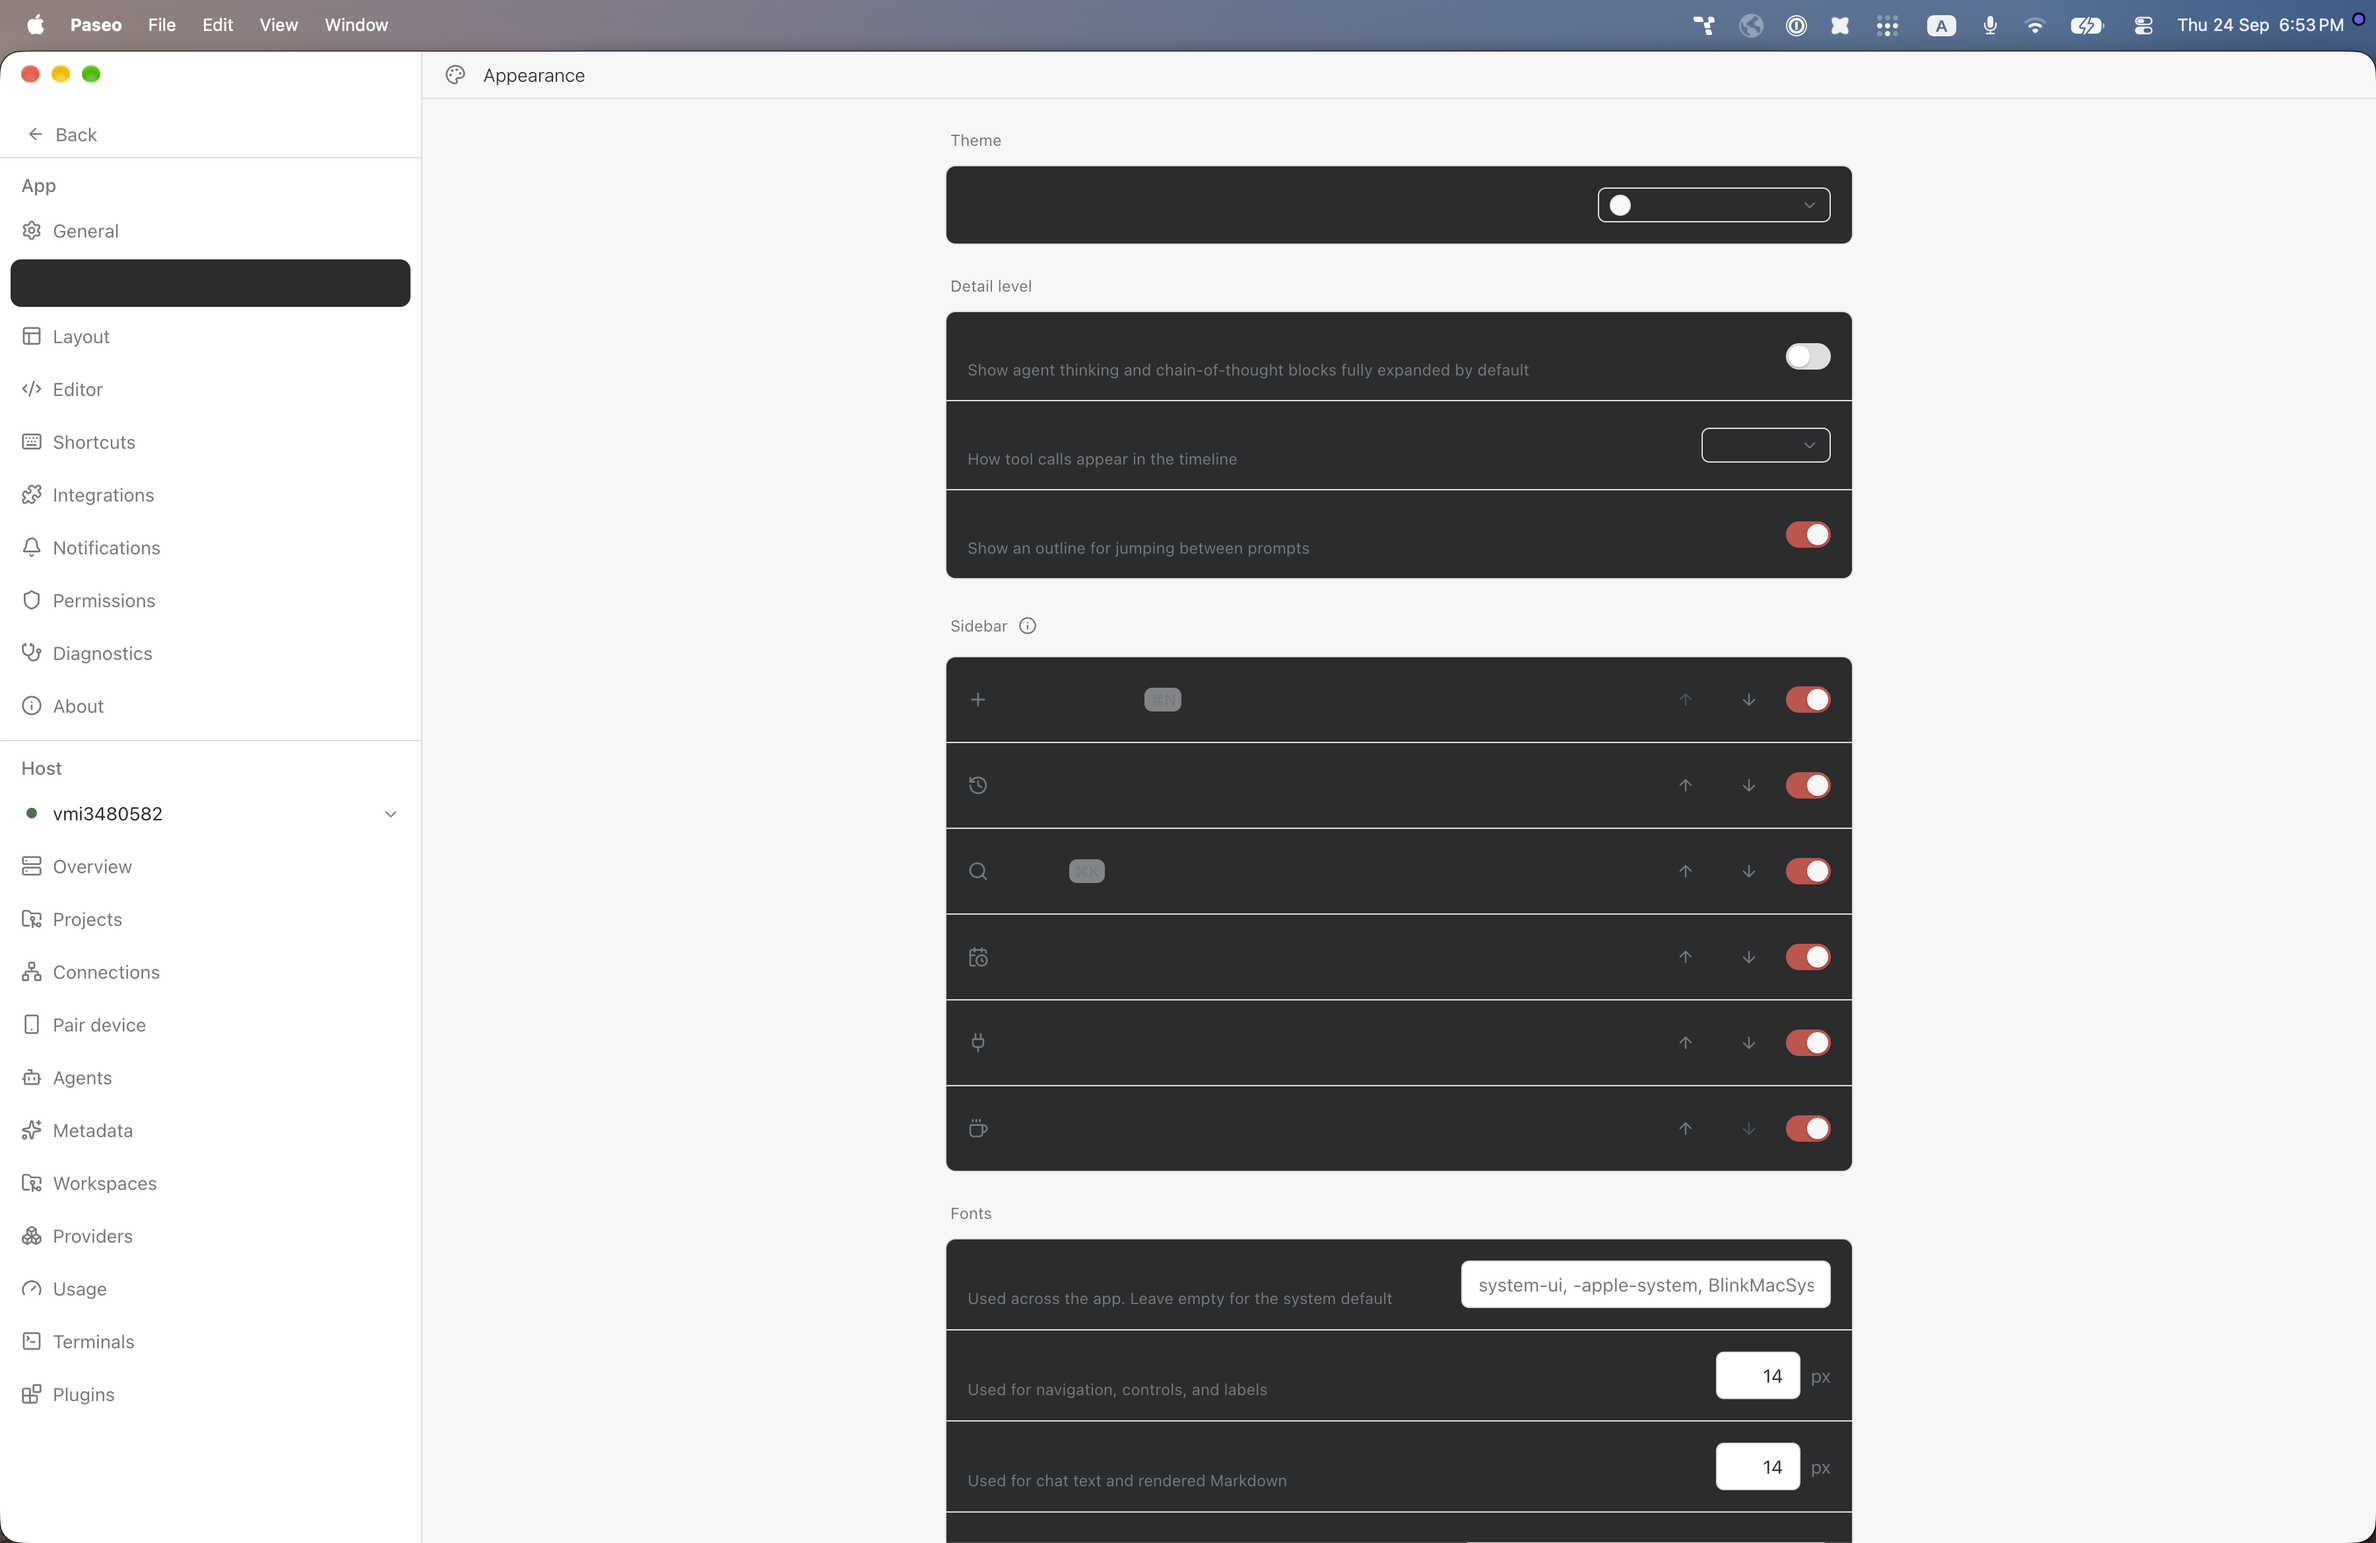
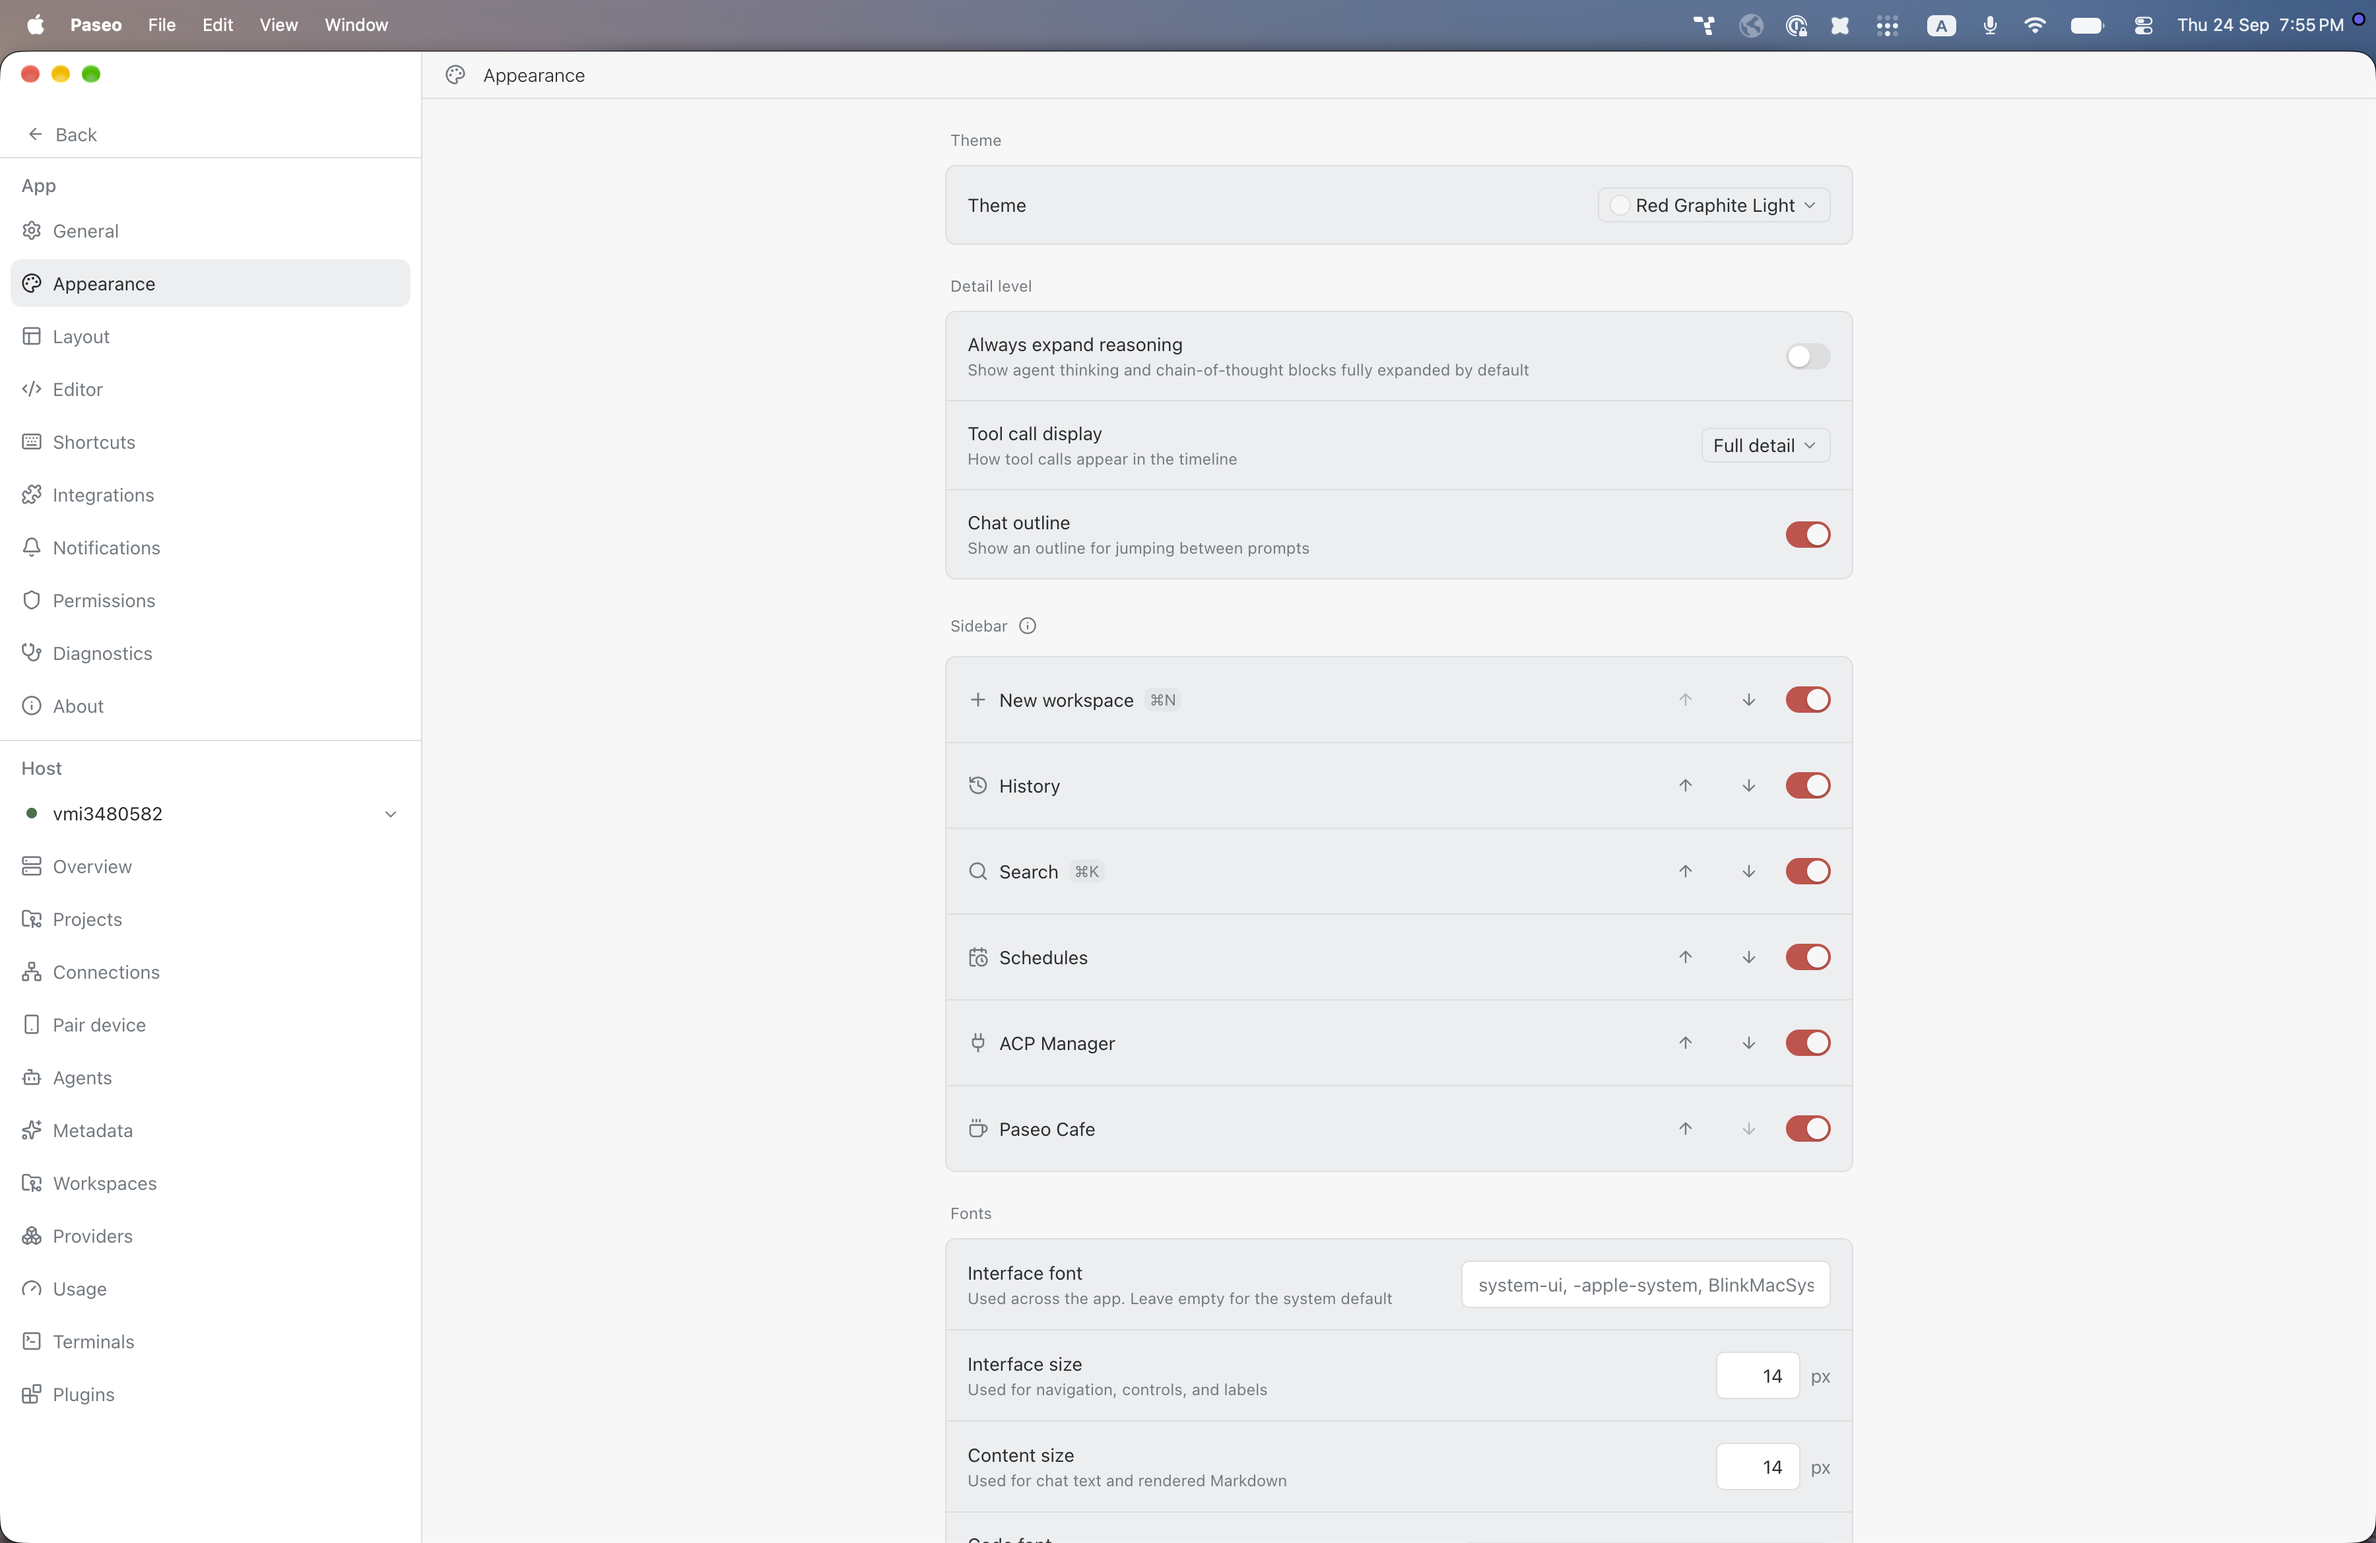
Fix low-contrast colors in 4 themes, refresh previews
Red Graphite Light: raised matched foreground, hiding sidebar/dropdown
text. Reverie Light: control matched mutedForeground, hiding sidebar
nav text. Base2Tone: control matched background, hiding the off-state
toggle track. Panic Mode: accent was pure black, hiding on-state
toggles. Bumped all four to 0.1.2 and replaced preview images.

diff --git a/packages/paseo-reverie-theme/index.client.ts b/packages/paseo-reverie-theme/index.client.ts
@@ -26,10 +26,10 @@ export default function contribute(client: PluginClientContext) {
 			background: "#e7e7e7",
 			foreground: "#1a2023",
 			raised: "#e3e3e3",
-			control: "#534a42",
+			control: "#dcd6cc",
 			border: "#0a4a44",
 			accent: "#0c5249",
-			mutedForeground: "#534a42",
+			mutedForeground: "#6b6259",
 			ring: "#084540",
 		},
 	});

diff --git a/packages/paseo-base2tone-theme/index.client.ts b/packages/paseo-base2tone-theme/index.client.ts
@@ -10,7 +10,7 @@ export default function contribute(client: PluginClientContext) {
 			background: "#292433",
 			foreground: "#f1ebff",
 			raised: "#544b68",
-			control: "#292433",
+			control: "#3a3346",
 			border: "#544b68",
 			accent: "#cf884a",
 			mutedForeground: "#e1d2fe",

diff --git a/packages/paseo-red-graphite-theme/index.client.ts b/packages/paseo-red-graphite-theme/index.client.ts
@@ -25,7 +25,7 @@ export default function contribute(client: PluginClientContext) {
 		colors: {
 			background: "#f7f7f8",
 			foreground: "#292c2e",
-			raised: "#292c2e",
+			raised: "#eceef0",
 			control: "#ffffff",
 			border: "#dcdee0",
 			accent: "#cb4c48",

diff --git a/packages/paseo-panic-mode-theme/index.client.ts b/packages/paseo-panic-mode-theme/index.client.ts
@@ -12,7 +12,7 @@ export default function contribute(client: PluginClientContext) {
 			raised: "#151e2d",
 			control: "#151e2d",
 			border: "#a1a1a1",
-			accent: "#000000",
+			accent: "#a1a1a1",
 			mutedForeground: "#a1a1a1",
 			ring: "#506682",
 		},
